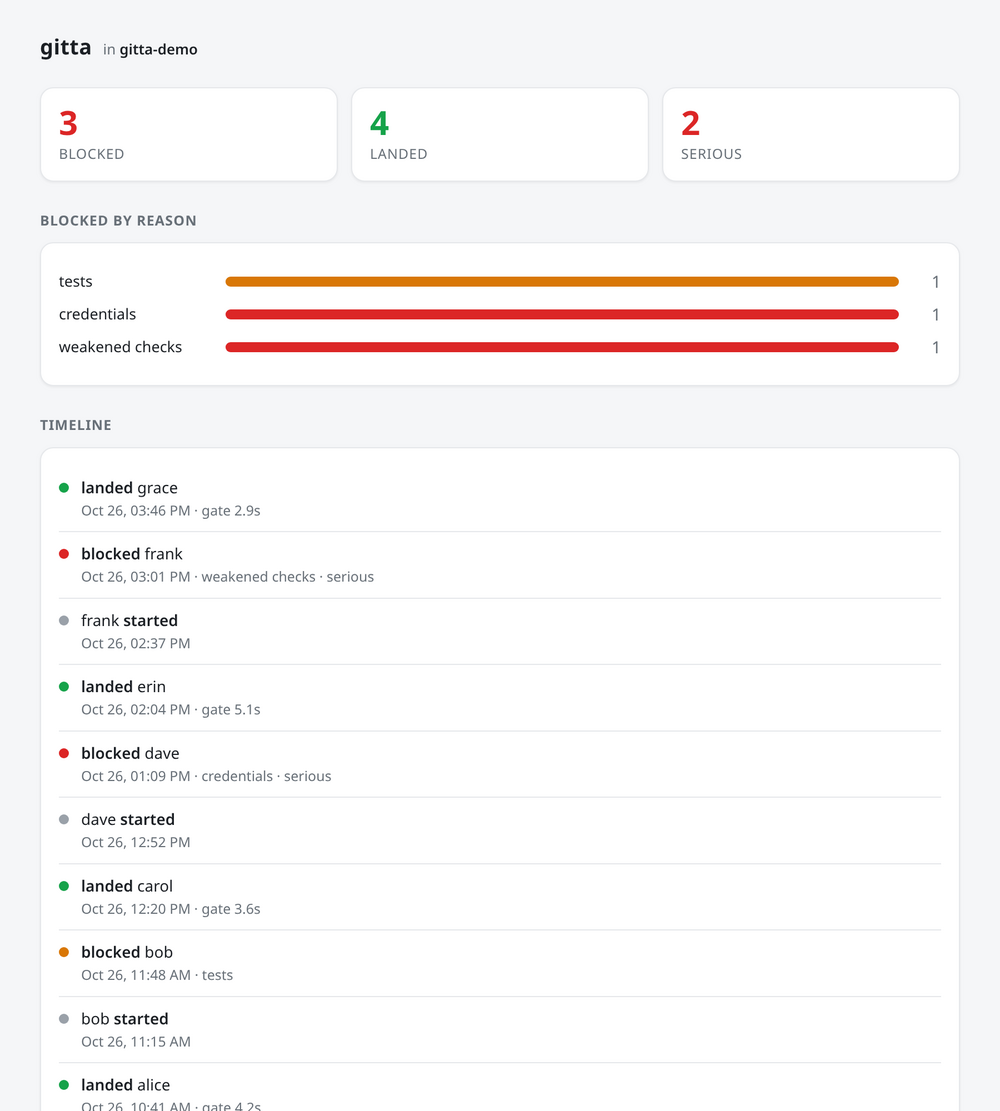
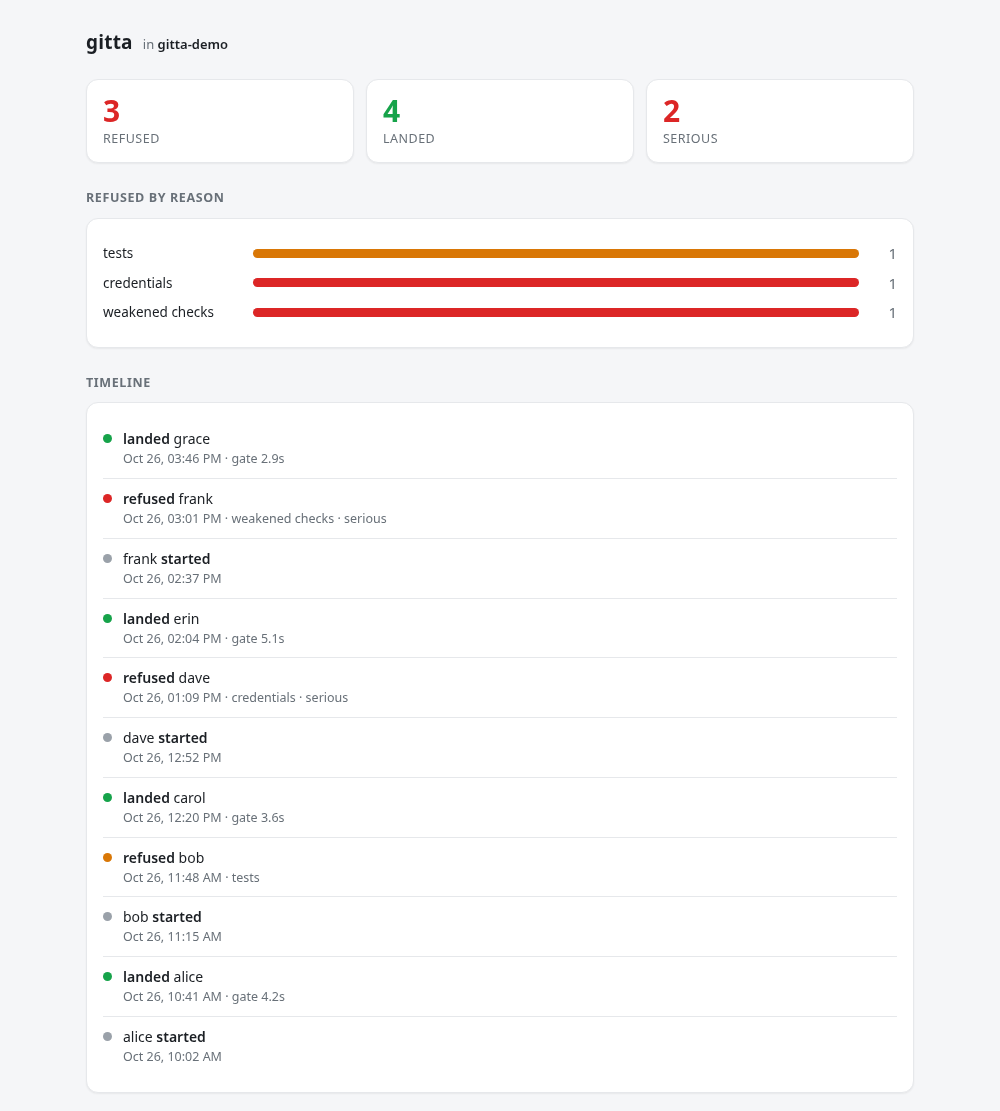
contrib: say refused, not blocked
The frontends count land_refused events, and gitta audit --stats
and status --json call them refused. gitta-feed's blocked field is
now refused, every frontend and doc says refused, and the
screenshots show the new wording. A separate blocked event exists
in the trail, so the old word was misleading.

diff --git a/contrib/waybar/style.css b/contrib/waybar/style.css
@@ -1,5 +1,5 @@
-/* The module colours its own text (Pango) — blocked in an alert colour, landed
-   in a good one, red + ⚠ when a block was serious. Set those colours with the
+/* The module colours its own text (Pango) — refused in an alert colour, landed
+   in a good one, red + ⚠ when a refusal was serious. Set those colours with the
    GITTA_COLOR_* env vars in your waybar config, NOT here. This CSS only gives the
    module the same background, padding and margin as your other modules, so it
    sits in the bar like one of them. Background below is Catppuccin Mocha; match

diff --git a/contrib/README.md b/contrib/README.md
@@ -10,10 +10,10 @@ never run the gitta binary, so they are agnostic to the editor, agent or AI
 frontend driving gitta — the same stream feeds a status bar, a terminal, an
 editor or a notifier equally, and polling is cheap and safe.
 
-They all show gitta's **impact**, not its plumbing: how many merges it **blocked**
-(bad code kept off the branch) next to how many passed and **landed**. Blocked and
-landed are coloured differently — a block is an alert, a landing is good — and a
-serious block (credentials, security, weakened checks, policy) is called out in
+They all show gitta's **impact**, not its plumbing: how many merges it **refused**
+(bad code kept off the branch) next to how many passed and **landed**. Refused and
+landed are coloured differently — a refusal is an alert, a landing is good — and a
+serious refusal (credentials, security, weakened checks, policy) is called out in
 red with a ⚠.
 
 ![the Waybar module](media/waybar.png)
@@ -21,7 +21,7 @@ red with a ⚠.
 ## What's here
 
 - **`gitta-feed`** — the core. Emits a neutral JSON summary
-  (`{on, landed, blocked, serious, by_check, last}`) for one repo. Every other
+  (`{on, landed, refused, serious, by_check, last}`) for one repo. Every other
   script formats this, so they never re-parse the trail.
 - **`waybar/`** — a [Waybar](https://github.com/Alexays/Waybar) module (its own
   README; colours and glyphs are configurable).
@@ -32,7 +32,7 @@ red with a ⚠.
   [i3blocks](https://github.com/vivien/i3blocks).
 - **`gitta-notify`** — a one-shot status line; `--toast` also calls `notify-send`.
 - **`gitta-dashboard`** — generates a self-contained HTML page (tiles, a
-  blocked-by-reason chart and a timeline) from the trail. No server.
+  refused-by-reason chart and a timeline) from the trail. No server.
 
   ![the dashboard](media/dashboard.png)
 - **`sample-audit.jsonl`** — a sample trail to try any of them against.

diff --git a/contrib/waybar/README.md b/contrib/waybar/README.md
@@ -1,11 +1,11 @@
 # gitta on Waybar
 
 A small [Waybar](https://github.com/Alexays/Waybar) module that shows gitta's
-impact: how many merges it has **blocked** — bad code kept off your branch — next
-to how many passed and **landed**. Blocked and landed are coloured differently (a
-block is an alert, a landing is good), and a serious block — credentials,
+impact: how many merges it has **refused** — bad code kept off your branch — next
+to how many passed and **landed**. Refused and landed are coloured differently (a
+refusal is an alert, a landing is good), and a serious refusal — credentials,
 security, weakened checks or policy — turns the count red and adds a ⚠. The
-tooltip breaks the blocks down by reason.
+tooltip breaks the refusals down by reason.
 
 ![the module on a bar](../media/waybar.png)
 
